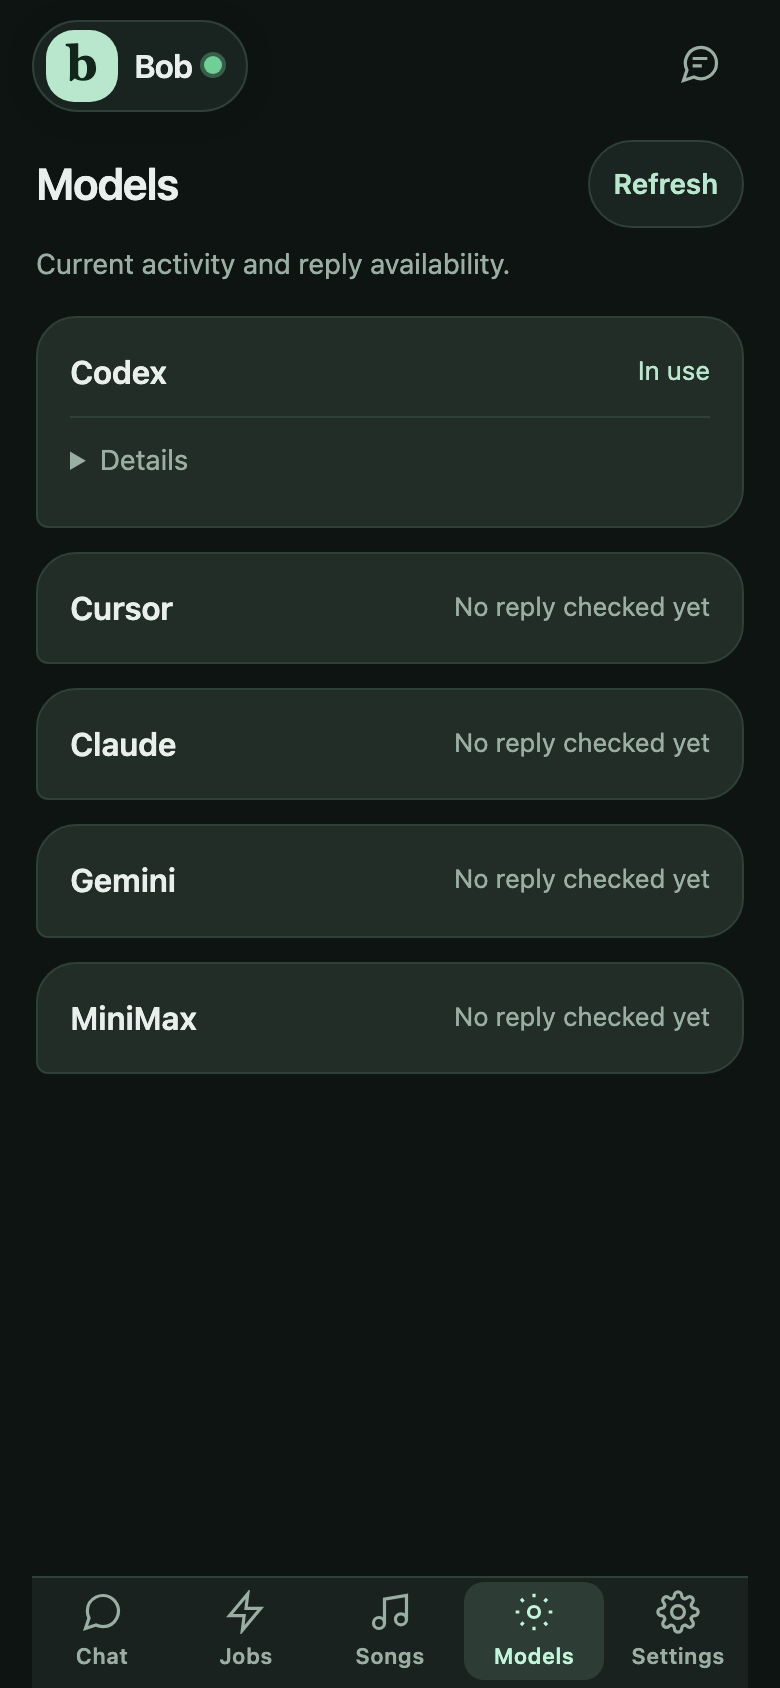
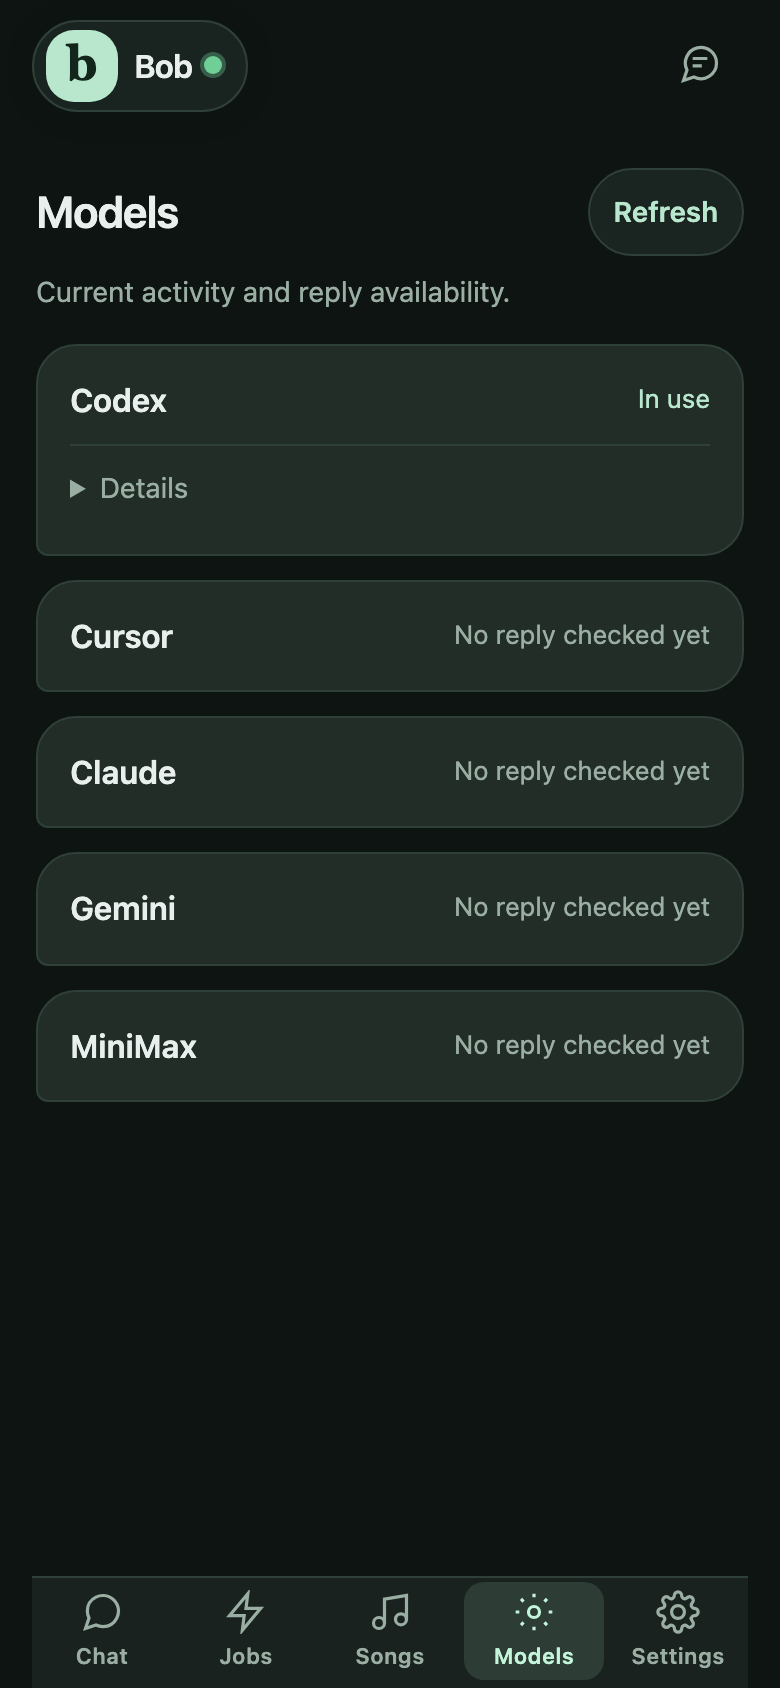
Finish Web Bob tab review and verify phone failure states

Changed region(s): [[0.0308, 0.0924, 0.9538, 0.6777], [0.7385, 0.0924, 0.9538, 0.154]]

diff --git a/webchat/static/app.js b/webchat/static/app.js
@@ -221,7 +221,7 @@ if ($("login-form")) {
       if (message.attempts?.length) {
         const rows = [...new Set(message.attempts.map((attempt) => {
           const name = providers[attempt.provider];
-          return name ? `${name}: ${modelReason(attempt.error)}` : "Another model could not reply.";
+          return name ? `${name}: ${modelReason(attempt.kind || attempt.error)}` : "Another model could not reply.";
         }))];
         const detail = document.createElement("details");
         detail.className = "reply-details";
@@ -357,12 +357,14 @@ if ($("login-form")) {
     }
   });
   $("conversations").addEventListener("change", async () => {
-    $("chats-dialog").close(); setBottomTab("chat");
+    if (!setBottomTab("chat")) { $("conversations").value = current; return; }
+    $("chats-dialog").close();
     current = $("conversations").value; remember("bob.conversation", current); revision = ""; busy = false;
     await poll(); $("messages").scrollTop = $("messages").scrollHeight;
   });
   $("new-chat").addEventListener("click", async () => {
-    $("chats-dialog").close(); setBottomTab("chat");
+    if (!setBottomTab("chat")) return;
+    $("chats-dialog").close();
     try { const conversation = await api("/api/conversations", {}); current = conversation.id; revision = ""; await refreshList(); render(conversation); $("message").focus(); }
     catch (error) { $("notice").textContent = error.message; }
   });
@@ -645,8 +647,10 @@ if ($("login-form")) {
   $("end-call")?.addEventListener("click", () => stopLiveCall());
   $("call-dialog")?.addEventListener("close", () => stopLiveCall());
   $("logout").addEventListener("click", async () => {
-    try { await api("/api/logout", {}); location.assign("/login"); }
-    catch (error) { $("notice").textContent = error.message; }
+    if (!(await confirmLeaveSongEdits())) return;
+    $("settings-notice").textContent = "";
+    try { await api("/api/logout", {}); markSongClean(); location.assign("/login"); }
+    catch (_) { $("settings-notice").textContent = "Could not log out. Please try again."; }
   });
   $("close-report").addEventListener("click", () => $("report").close());
   let songProjectId = stored("bob.songProject") || "", songBusy = false;
@@ -935,7 +939,7 @@ if ($("login-form")) {
       }
       return card;
     }));
-    const finished = uniqueJobs(data.recently_finished).slice(0, 5);
+    const finished = data.inspection?.queue_available ? uniqueJobs(data.recently_finished).slice(0, 5) : [];
     $("finished-empty").hidden = finished.length > 0;
     $("finished-empty").textContent = data.inspection?.queue_available ? "No finished jobs yet." : "Finished jobs could not be checked.";
     $("finished-jobs").replaceChildren(...finished.map((job) => {
@@ -972,7 +976,9 @@ if ($("login-form")) {
     const list = jobElement("dl", "jobs-detail-list");
     const add = (label, value) => list.append(jobElement("dt", "", label), jobElement("dd", "", value));
     add("Live check", new Date(data.checked_at * 1000).toLocaleTimeString([], { hour: "numeric", minute: "2-digit" }));
-    add("Waiting", `${details.queued || 0} queued${details.unconfirmed ? ` · ${details.unconfirmed} assigned, activity unconfirmed` : ""}`);
+    add("Waiting", data.inspection?.queue_available
+      ? `${details.queued || 0} queued${details.unconfirmed ? ` · ${details.unconfirmed} assigned, activity unconfirmed` : ""}`
+      : "Waiting jobs could not be checked.");
     list.append(jobElement("dt", "", "Activity"), jobElement("dd", "", "A running worker does not confirm progress or completion."));
     $("jobs-detail-body").replaceChildren(list);
   }
@@ -1023,7 +1029,7 @@ if ($("login-form")) {
       card.append(heading);
       const usage = model.usage || {};
       const details = [];
-      if (work.length) details.push(["Current work", [...new Set(work.map((job) => job.title))].join("; ")]);
+      if (work.length) details.push(["Current work", [...new Set(work.map((job) => job.title).filter((title) => title && title !== "Task details unavailable"))].join("; ")]);
       if (model.reason && model.state !== "ready") details.push(["Last reply issue", modelReason(model.reason)]);
       if (model.retry_at > Date.now() / 1000) details.push(["Try again after", timestamp(model.retry_at)]);
       if (model.last_success) details.push(["Last reply", timestamp(model.last_success)]);

diff --git a/webchat/static/style.css b/webchat/static/style.css
@@ -152,13 +152,14 @@ h1 { font-size: 18px; letter-spacing: -.35px; }
   min-height: 0;
   overflow-y: auto;
   overscroll-behavior: contain;
-  padding: 4px 2px 16px;
+  padding: 18px 2px 28px;
 }
 .view-title-row {
   display: flex;
   align-items: center;
   justify-content: space-between;
   gap: 8px;
+  min-height: 44px;
   margin-bottom: 8px;
 }
 .view-title-row .view-title { margin-bottom: 0; flex: 1; min-width: 0; }
@@ -560,7 +561,6 @@ code { overflow-wrap: anywhere; font-size: 11px; }
   .app { border-left: 1px solid var(--line); border-right: 1px solid var(--line); }
 }
 
-.jobs-scroll { padding: 18px 2px 28px; }
 .jobs-section { margin-bottom: 28px; }
 .jobs-section h2 { font-size: 20px; font-weight: 600; letter-spacing: -.4px; }
 .jobs-heading { display: flex; align-items: center; gap: 10px; }

diff --git a/webchat/static/index.html b/webchat/static/index.html
@@ -138,7 +138,7 @@
 
     <section id="view-settings" class="main-view" data-view="settings" hidden>
       <div class="view-scroll settings-list">
-        <h2 class="view-title">Settings</h2>
+        <div class="view-title-row"><h2 class="view-title">Settings</h2></div>
         <div class="settings-group">
           <h3 class="settings-group-title">Replies</h3>
           <label class="field-label" for="provider-choice">Who answers</label>
@@ -162,6 +162,7 @@
           <p id="self-improve-status" class="muted">Checking schedule…</p>
         </details>
         <button type="button" id="logout" class="quiet settings-logout">Log out</button>
+        <p id="settings-notice" class="notice" role="status"></p>
       </div>
     </section>
 

diff --git a/webchat/isolated_tabs_proof.py b/webchat/isolated_tabs_proof.py
@@ -16,7 +16,10 @@ from providers import Providers
 
 
 class NoGeneration(Providers):
+    calls = 0
+
     def reply(self, *args, **kwargs):
+        self.calls += 1
         raise AssertionError("The tab proof must not call a model")
 
 
@@ -26,10 +29,12 @@ def main():
     args = parser.parse_args()
     output = args.output_dir.resolve()
     output.mkdir(parents=True, exist_ok=True)
+    started_at = datetime.now(timezone.utc).isoformat()
     before = dict(listener=live_listener(), services=service_screens())
     with tempfile.TemporaryDirectory(prefix="webbob-tabs-") as temporary:
         root = Path(temporary)
-        chat = Chat(root / "conductor/webchat", root, NoGeneration(root, lambda text: text))
+        provider = NoGeneration(root, lambda text: text)
+        chat = Chat(root / "conductor/webchat", root, provider)
         server = Server(("127.0.0.1", 0), chat)
         thread = threading.Thread(target=server.serve_forever, daemon=True)
         thread.start()
@@ -40,6 +45,8 @@ def main():
                                     env=env, timeout=180, check=False)
             if result.returncode:
                 raise SystemExit(result.returncode)
+            assert provider.calls == 0, "The proof called a model"
+            assert not (root / "conductor/state/queue.jsonl").exists(), "The proof created a job"
         finally:
             server.shutdown()
             server.server_close()
@@ -48,8 +55,9 @@ def main():
     after = dict(listener=live_listener(), services=service_screens())
     evidence = output / "WEBBOB-CLEAN-0927.tabs-evidence.json"
     value = json.loads(evidence.read_text())
-    value.update(live_before=before, live_after=after, finished_at=datetime.now(timezone.utc).isoformat(),
+    value.update(live_before=before, live_after=after, started_at=started_at, finished_at=datetime.now(timezone.utc).isoformat(),
                  live_services_unchanged=before == after,
+                 provider_calls=provider.calls, jobs_created=0,
                  isolation="Temporary data root and ephemeral loopback listener; no model calls, probes or workers started.")
     code = Path(__file__).resolve().parents[1]
     value["source_sha256"] = {name: hashlib.sha256((code / name).read_bytes()).hexdigest() for name in (

diff --git a/webchat/tab_status.py b/webchat/tab_status.py
@@ -8,7 +8,7 @@ from datetime import datetime, timezone
 from pathlib import Path
 
 from live_status_snapshot import observe_work
-from jobs_view import is_drill
+from jobs_view import is_drill, labels
 
 
 def recorded_usage(root: Path, name: str, *, now: float) -> dict:
@@ -55,11 +55,13 @@ def overview(chat, conversation_id=None) -> dict:
     except Exception:
         health = {}
     now = time.time()
+    work = [row for row in observed["work"] if not is_drill(row)]
+    active_models = {row.get("worker") for row in work if row.get("state") == "running"}
     models = {}
     for name in ("codex", "cursor", "claude", "gemini", "minimax"):
-        if name not in health:
+        if name not in health and name not in active_models:
             continue
-        row = health[name]
+        row = health.get(name) or {}
         # Cached lane budgets and text are deliberately not part of this view.
         models[name] = {key: row.get(key) for key in ("state", "reason", "retry_at", "last_success")}
         models[name]["usage"] = recorded_usage(chat.root, name, now=now)
@@ -71,7 +73,8 @@ def overview(chat, conversation_id=None) -> dict:
     return dict(
         captured_at=captured_at,
         inspection=observed["inspection"],
-        work=[row for row in observed["work"] if not is_drill(row)],
+        work=[{**row, "title": labels(observed["records"].get(row.get("job_id"), {}), row)["task"]}
+              for row in work],
         queued=[row for row in observed["queue"]["queued"] if not is_drill(row)],
         models=models,
         automation=automation,

diff --git a/webchat/test_tab_status.py b/webchat/test_tab_status.py
@@ -82,11 +82,23 @@ class TabStatusTests(test_webchat.Fixture):
             path.write_text(json.dumps(dict(codex=dict(used_percent=percent, reset_at=reset))))
             self.assertEqual(recorded_usage(self.root, "codex", now=now), {})
 
-    def test_model_failure_does_not_hide_live_work(self):
+    def test_model_failure_without_work_has_no_invented_model_rows(self):
         with patch.object(self.fake, "health", side_effect=OSError("unavailable")):
             data = overview(self.chat)
         self.assertEqual(data["models"], {})
         self.assertTrue(data["inspection"]["processes_available"])
+
+    def test_model_failure_keeps_observed_activity_and_plain_task_labels(self):
+        processes = parse_processes("100 1 01:00 S codex exec task")
+        self.write("conductor/state/queue.jsonl", json.dumps(dict(
+            id="job-one", status="running", pid=100, worker="codex", title="Review login · abc1234")))
+        with patch.object(self.fake, "health", side_effect=OSError("unavailable")), \
+                patch("live_status_snapshot.process_table", return_value=processes):
+            data = overview(self.chat)
+        self.assertEqual(list(data["models"]), ["codex"])
+        self.assertIsNone(data["models"]["codex"]["state"])
+        self.assertEqual(data["work"][0]["title"], "Review login")
+        self.assertEqual(data["work"][0]["state"], "running")
 
     def test_overview_requires_login_and_redacts_private_values(self):
         self.write("conductor/state/queue.jsonl", json.dumps(dict(

diff --git a/reviews/WEBBOB-CLEAN-0927.md b/reviews/WEBBOB-CLEAN-0927.md
@@ -244,15 +244,15 @@ python3 webchat/isolated_jobs_proof.py --live-root /path/to/bob-overnight-inject
 
 ## Follow-up 5: all five tabs, phone first
 
-PASS. Chat, Jobs, Songs, Models and Settings now use the same spacing, readable text, touch targets and collapsed details. This follow-up builds on the finished Jobs redesign and source-error fixes (`fd2967a`), preserving grouped work cards, the five most recent results, safe result/PR links and the saved-result viewer.
+PASS. Chat, Jobs, Songs, Models and Settings now use the same spacing, readable text, touch targets and collapsed details. This follow-up builds on the finished Jobs redesign and source-error fixes (`fd2967a`), preserving grouped work cards, the five most recent results, safe result/PR links and the saved-result viewer. The final review was completed in a separate checkout and rebased onto the concurrent tab commit `751261d`; both sets of work are retained.
 
 | Tab | Cleanup and resulting behavior | Phone screenshot |
 | --- | --- | --- |
-| Chat | Removed unfinished attachments and canned round/council requests. View jobs opens current work without sending a message. One conversation picker, compact reply tools, collapsed/deduplicated retry details in plain words, and an honest empty conversation. Unsupported voice controls are hidden. | [Chat](webbob-tab-chat-0927.png) |
-| Jobs | Current project/task/model/time remains first. Added Refresh, omitted unreported metadata, removed duplicated model/cost rows, and kept queue/check details collapsed. Failed or expired refreshes clear working and finished cards. A service name is not used as a task description. | [Jobs](webbob-tab-jobs-0927.png) |
+| Chat | Removed unfinished attachments and canned round/council requests. View jobs opens current work without sending a message. One conversation picker, compact reply tools, collapsed/deduplicated retry details from actual server reason codes, and an honest empty conversation. Unsupported voice controls are hidden. | [Chat](webbob-tab-chat-0927.png) |
+| Jobs | Current project/task/model/time remains first. Added Refresh, omitted unreported metadata, removed duplicated model/cost rows, and kept queue/check details collapsed. Failed or expired refreshes clear working and finished cards. An unreadable queue hides unverified finished results and cannot claim zero waiting work. A service name is not used as a task description. | [Jobs](webbob-tab-jobs-0927.png) |
 | Songs | A real empty library leads to New song. Lyrics and Save come first; chords, notes, audio and saved versions are collapsed. Actual saved timestamps replace vague status text. New/switch clears prior audio and versions. Save failures retain edits and never claim they were saved. Audio's temporary association with the editor is stated plainly. | [Songs](webbob-tab-songs-0927.png), [empty editor](webbob-tab-songs-editor-0927.png) |
-| Models | One card per model, showing current activity and reply availability. Removed dashboard, score, round and builder rows. Measured costs, plan use, retry times and dated last replies appear only when present, inside Details. Live workers override a cached ready label. | [Models](webbob-tab-models-0927.png) |
-| Settings | Reply selection is first and persists on the device. All supported model choices say “first,” with fallback explained. Voice and actual scheduling status are collapsed. Removed repeated chats, old changelog, setup commands and internal loop/tick language. | [Settings](webbob-tab-settings-0927.png) |
+| Models | One card per model, showing current activity and reply availability. Removed dashboard, score, round and builder rows. Measured costs, plan use, retry times and dated last replies appear only when present, inside Details. Live workers override a cached ready label and stay visible if reply-health data fails. Task labels use plain words. | [Models](webbob-tab-models-0927.png) |
+| Settings | Reply selection is first and persists on the device. All supported model choices say “first,” with fallback explained. Voice and actual scheduling status are collapsed. Removed repeated chats, old changelog, setup commands and internal loop/tick language. Logout failures appear here; successful logout invalidates the session. | [Settings](webbob-tab-settings-0927.png) |
 
 Models and Settings read the authenticated, redacted, read-only `/api/overview`; Jobs keeps `/api/jobs/activity` and its existing result endpoint. These tab reads do not use or refresh the old dashboard or handback ledger. Usage comes directly from saved measurements: a missing, damaged or unknown ledger does not become $0, no budget ceiling is invented, and expired or day-old plan observations are omitted. Jobs and Models discard responses older than 30 seconds and clear old values when checks fail. Missing checks remain distinct from confirmed empty state. Open details survive polling.
 
@@ -260,15 +260,24 @@ Models and Settings read the authenticated, redacted, read-only `/api/overview`;
 
 | Check | Result |
 | --- | --- |
-| `python3 -m unittest discover -s webchat -p 'test_*.py'` | **235 passed**, 14.436 s |
-| `python3 -m unittest discover -s services -p 'test_*.py'` | **111 passed**, 2.697 s |
+| `python3 -m unittest discover -s webchat -p 'test_*.py'` | **236 passed**, 13.616 s |
+| `python3 -m unittest discover -s services -p 'test_*.py'` | **111 passed**, 2.544 s |
 | `node --test webchat/test_quiet_hours_js.mjs` | **1 passed** |
 | `python3 bootstrap.py check` | **syntax: PASS** |
 | JavaScript syntax and `git diff --check` | **Passed** |
-| All-tab headless Chromium proof | **23 layout checks passed**: all five tabs at 320/390/430 px, all five in light mode at 390 px, and the song editor at all three phone widths |
+| All-tab headless Chromium proof | **23 layout checks and 11 behavior groups passed**: all five tabs at 320/390/430 px, all five in light mode at 390 px, and the song editor at all three phone widths |
 | Existing Jobs browser proof after integration | **Passed**: grouped worker/queue evidence, five-result limit, safe result dialog/links, preserved disclosure state, empty/unavailable/unreadable-queue cases, no legacy-dashboard requests, 320/390/430/900 px in dark and light mode |
 
 No tests were skipped. The service-suite restart lines are mocked watchdog output. New regressions cover authenticated/redacted read-only data, damaged queues, live claim/process deduplication, missing/stale/invalid usage, provider-status failure isolation, and service names not masquerading as task descriptions. Browser cases also exercise real private song saves and reloads, failed saves, unsaved-edit protection, cleared audio/history, persisted model preference, stale/error response removal, duplicate rows and plain retry details.
+
+The final review also verifies that cancelling navigation from an edited song
+does not create or switch conversations. Logout protects unsaved edits and reports
+errors on the Settings tab. A real private chat submits `status`, verifies the
+saved server-owned reply, then starts a new conversation and logs out. All tabs
+now share the Jobs view's top and bottom spacing. The proof asserts zero model
+calls and zero created jobs; an initial run caught the preference test leaving
+MiniMax selected, and now explicitly restores automatic replies before the status
+test. The no-generation guard prevented an external call in that failed run.
 
 ### Capture and isolation
 

diff --git a/webchat/README.md b/webchat/README.md
@@ -282,6 +282,23 @@ connection check; it expects `evidence/live-chat.json` from the initial two-turn
 check. Set `BOB_PLAYWRIGHT_MODULE` / `BOB_CHROMIUM_PATH` if using a cached runtime.
 The initial verification record is `conductor/reviews/WEBCHAT-RESULT.md`.
 
+For the five phone tabs, use the isolated proof from the repository checkout:
+
+```sh
+python3 webchat/isolated_tabs_proof.py --output-dir reviews
+```
+
+It starts an ephemeral loopback listener with private chats, songs, credentials
+and storage. Headless Chromium captures `webbob-tab-<name>-0927.png` for Chat,
+Jobs, Songs, Models and Settings, plus the song editor, and tests phone layouts,
+stale/unavailable status, duplicate rows, song persistence and logout. Screenshots
+use actual responses from that isolated instance, including read-only host
+activity; regression fixtures run afterward. It launches no model or worker and
+does not restart the live service. Set `BOB_PLAYWRIGHT_MODULE` and
+`BOB_CHROMIUM_PATH` when using an existing runtime outside the default paths.
+The review and raw evidence are in `reviews/WEBBOB-CLEAN-0927.md` and
+`reviews/WEBBOB-CLEAN-0927.tabs-evidence.json`.
+
 ## Repeat the live failover drills
 
 Deliberately restart only the webchat server with `BOB_WEBCHAT_DRILLS=1` in the
